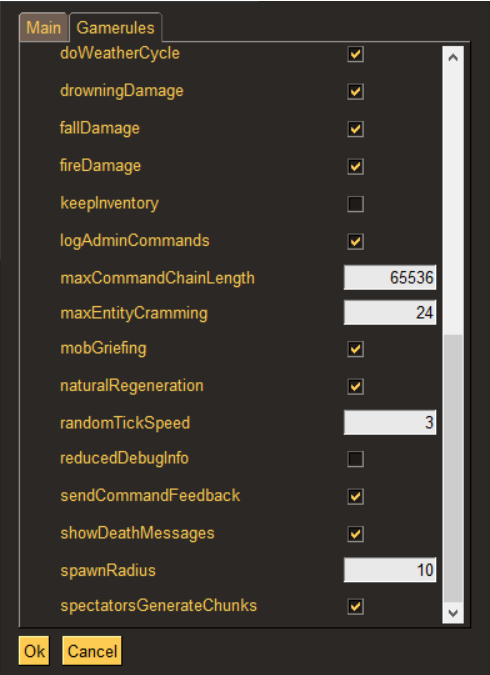
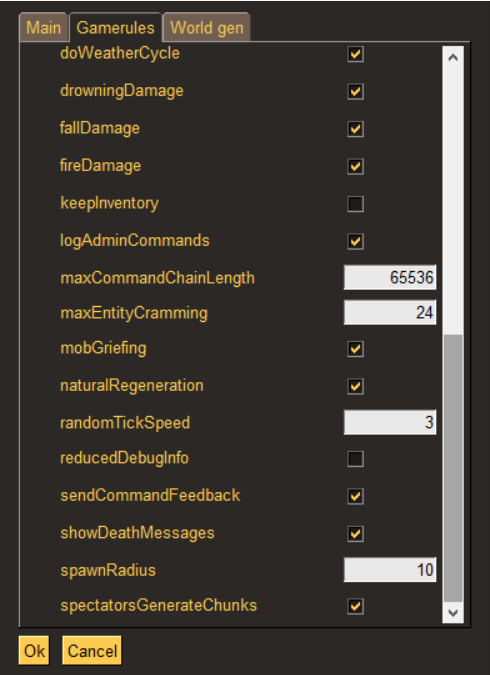
Release v0.2

diff --git a/README.md b/README.md
@@ -10,8 +10,9 @@ Generate Minecraft worlds with your favourite datapacks in a couple clicks!
 <details open>
   <summary>GUI images (Collapsable)</summary>
   
-  <img src="https://github.com/pizzaspren/FastWorldCreator/blob/master/assets/images/gui_main.png" width="400">
-  <img src="https://github.com/pizzaspren/FastWorldCreator/blob/master/assets/images/gui_gamerules.png" width="400">
+  <img src="https://github.com/pizzaspren/FastWorldCreator/blob/master/assets/images/gui_main.png" width="275">
+  <img src="https://github.com/pizzaspren/FastWorldCreator/blob/master/assets/images/gui_gamerules.png" width="275">
+  <img src="https://github.com/pizzaspren/FastWorldCreator/blob/master/assets/images/gui_worldgen.png" width="275">
 </details>
 
 Tired of copying and pasting your datapacks every time you create a new world? Want to create a multitude of worlds in a very short time? Would you like to create worlds for different versions of Minecraft without even launching the game?
@@ -20,8 +21,8 @@ Look no further, this application is just what you need!
 
 ### Features
 * Automatically detect installed Minecraft releases.
-* Highly customizable world generation.
-* Bundled with vanilla-style datapacks to enhance your gameplay.
+* Highly customizable world generation (soon).
+* Bundled with an optional loot randomizing datapack that works for ANY version.
 * Drop your own datapacks in the `assets/imported_datapacks` folder and they will become instantly available to all the new worlds you want to create.
 * Select which datapacks you want to add to your world with a simple click.
 * ...And much more!
